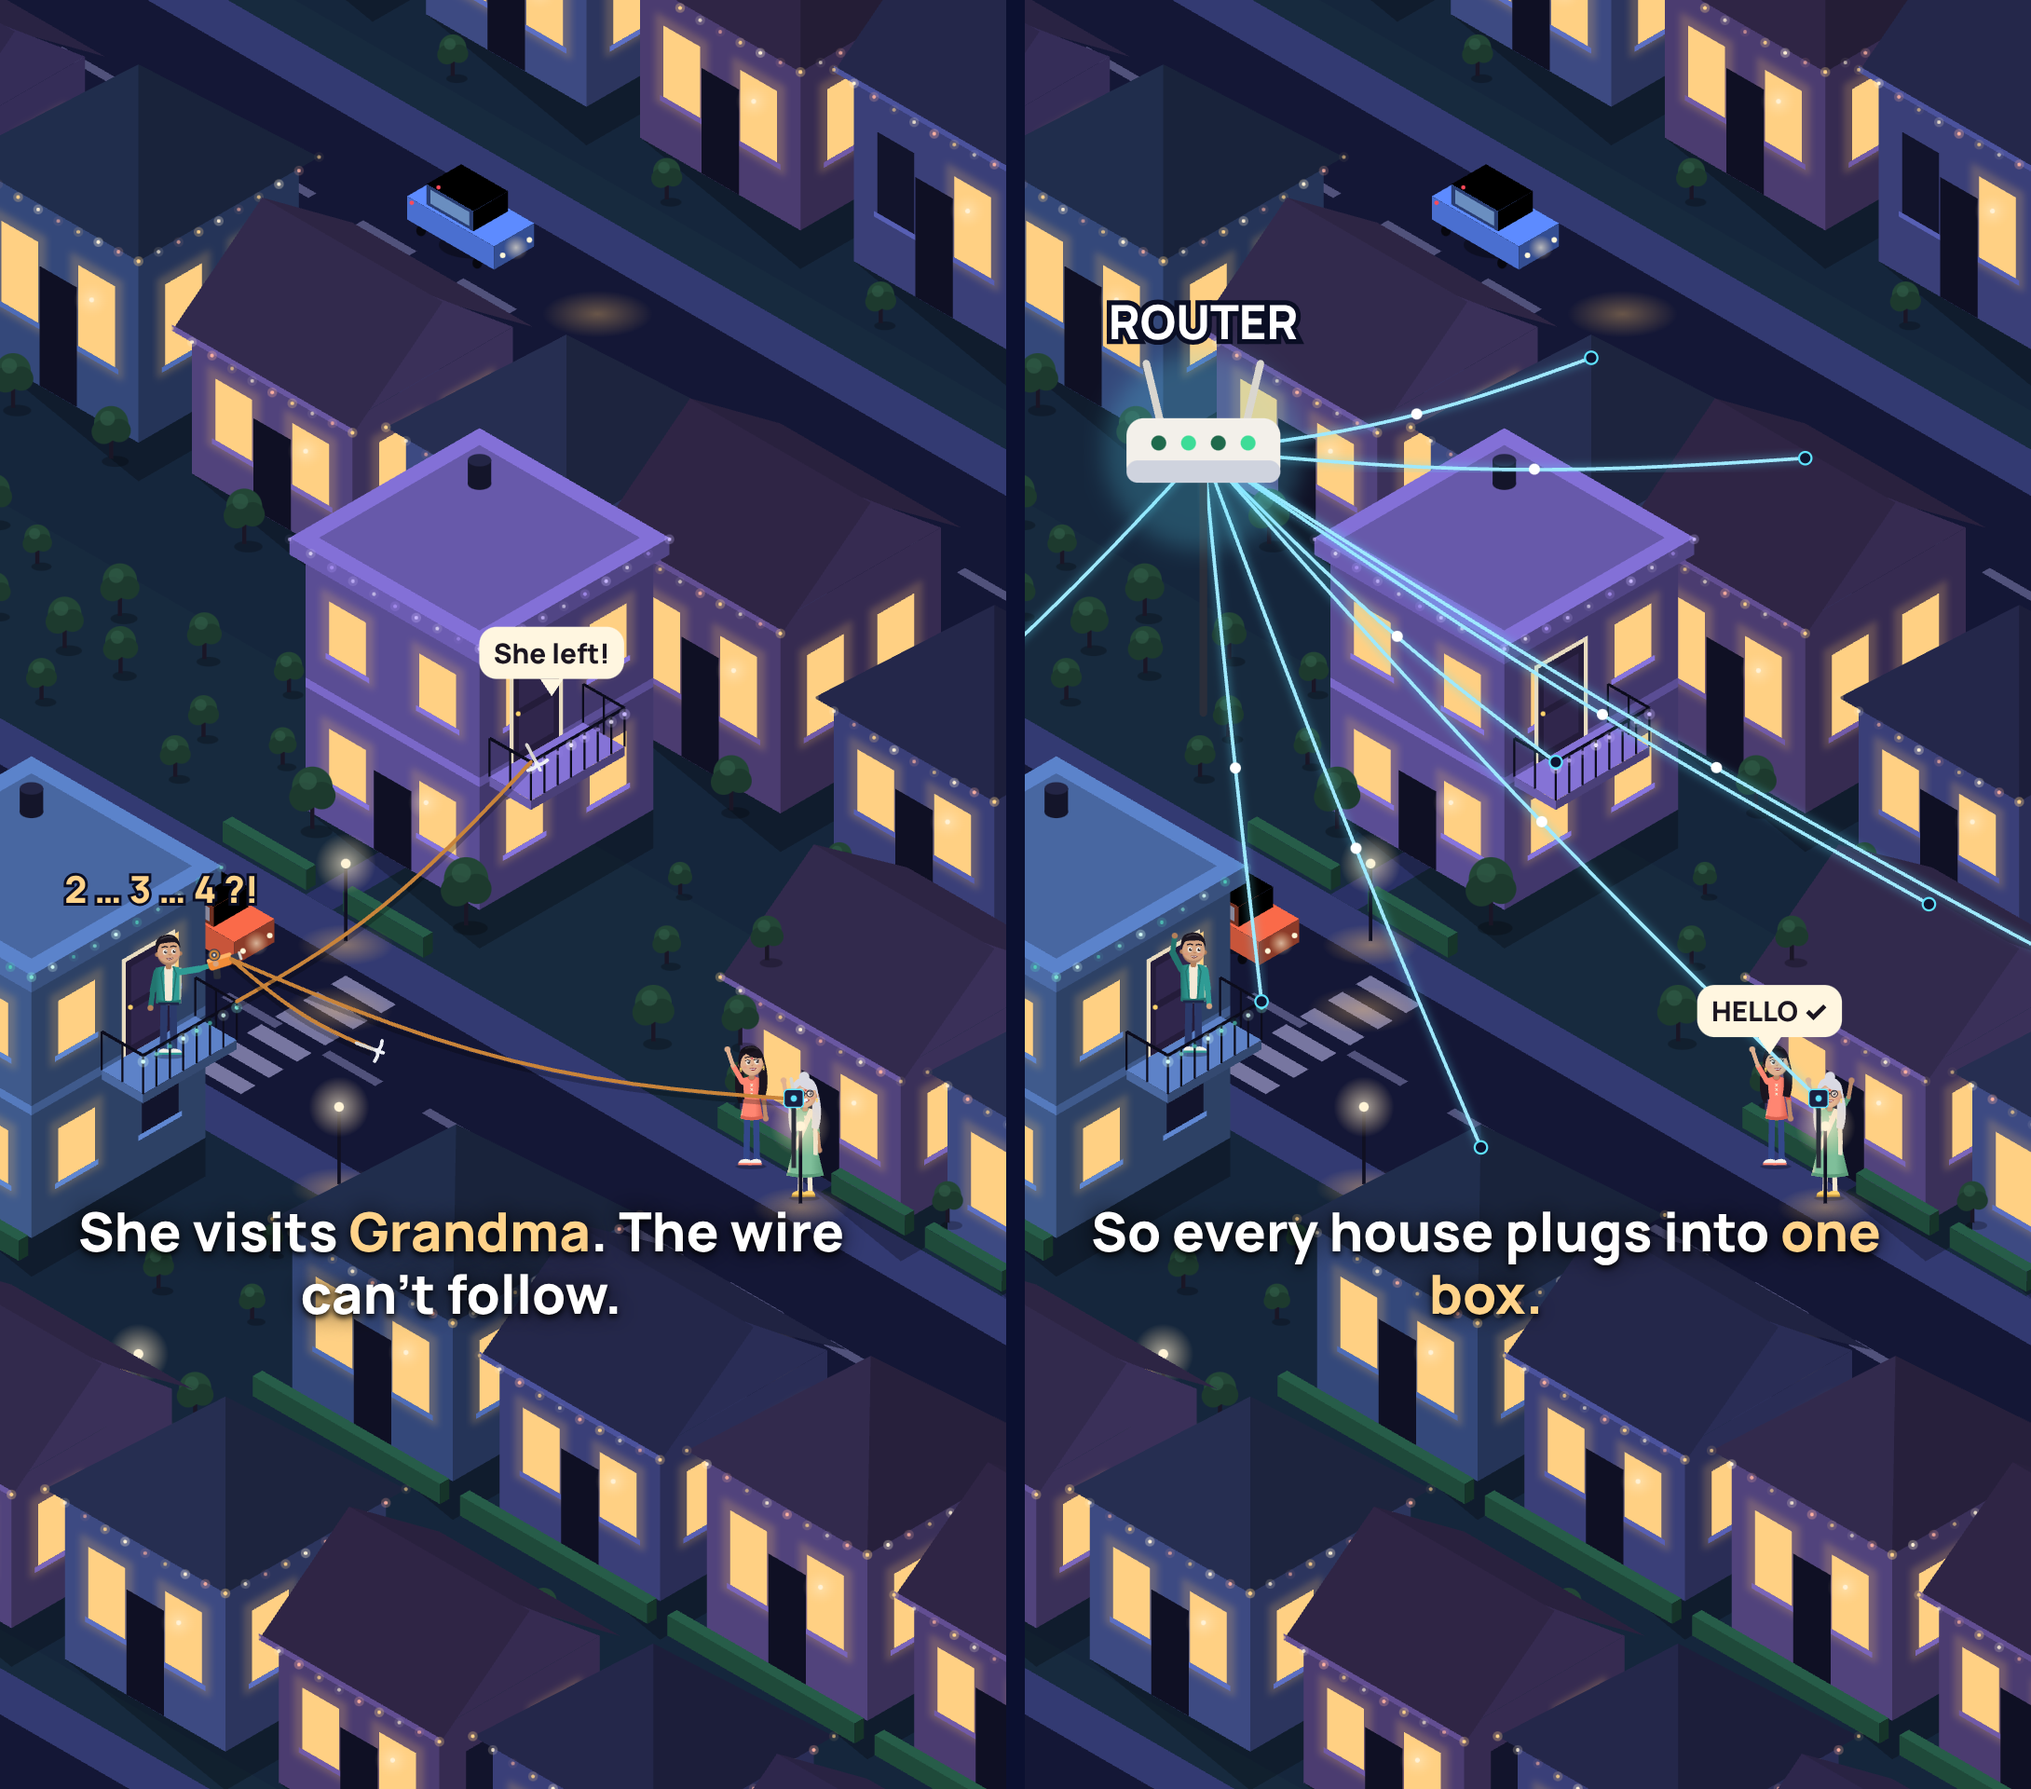
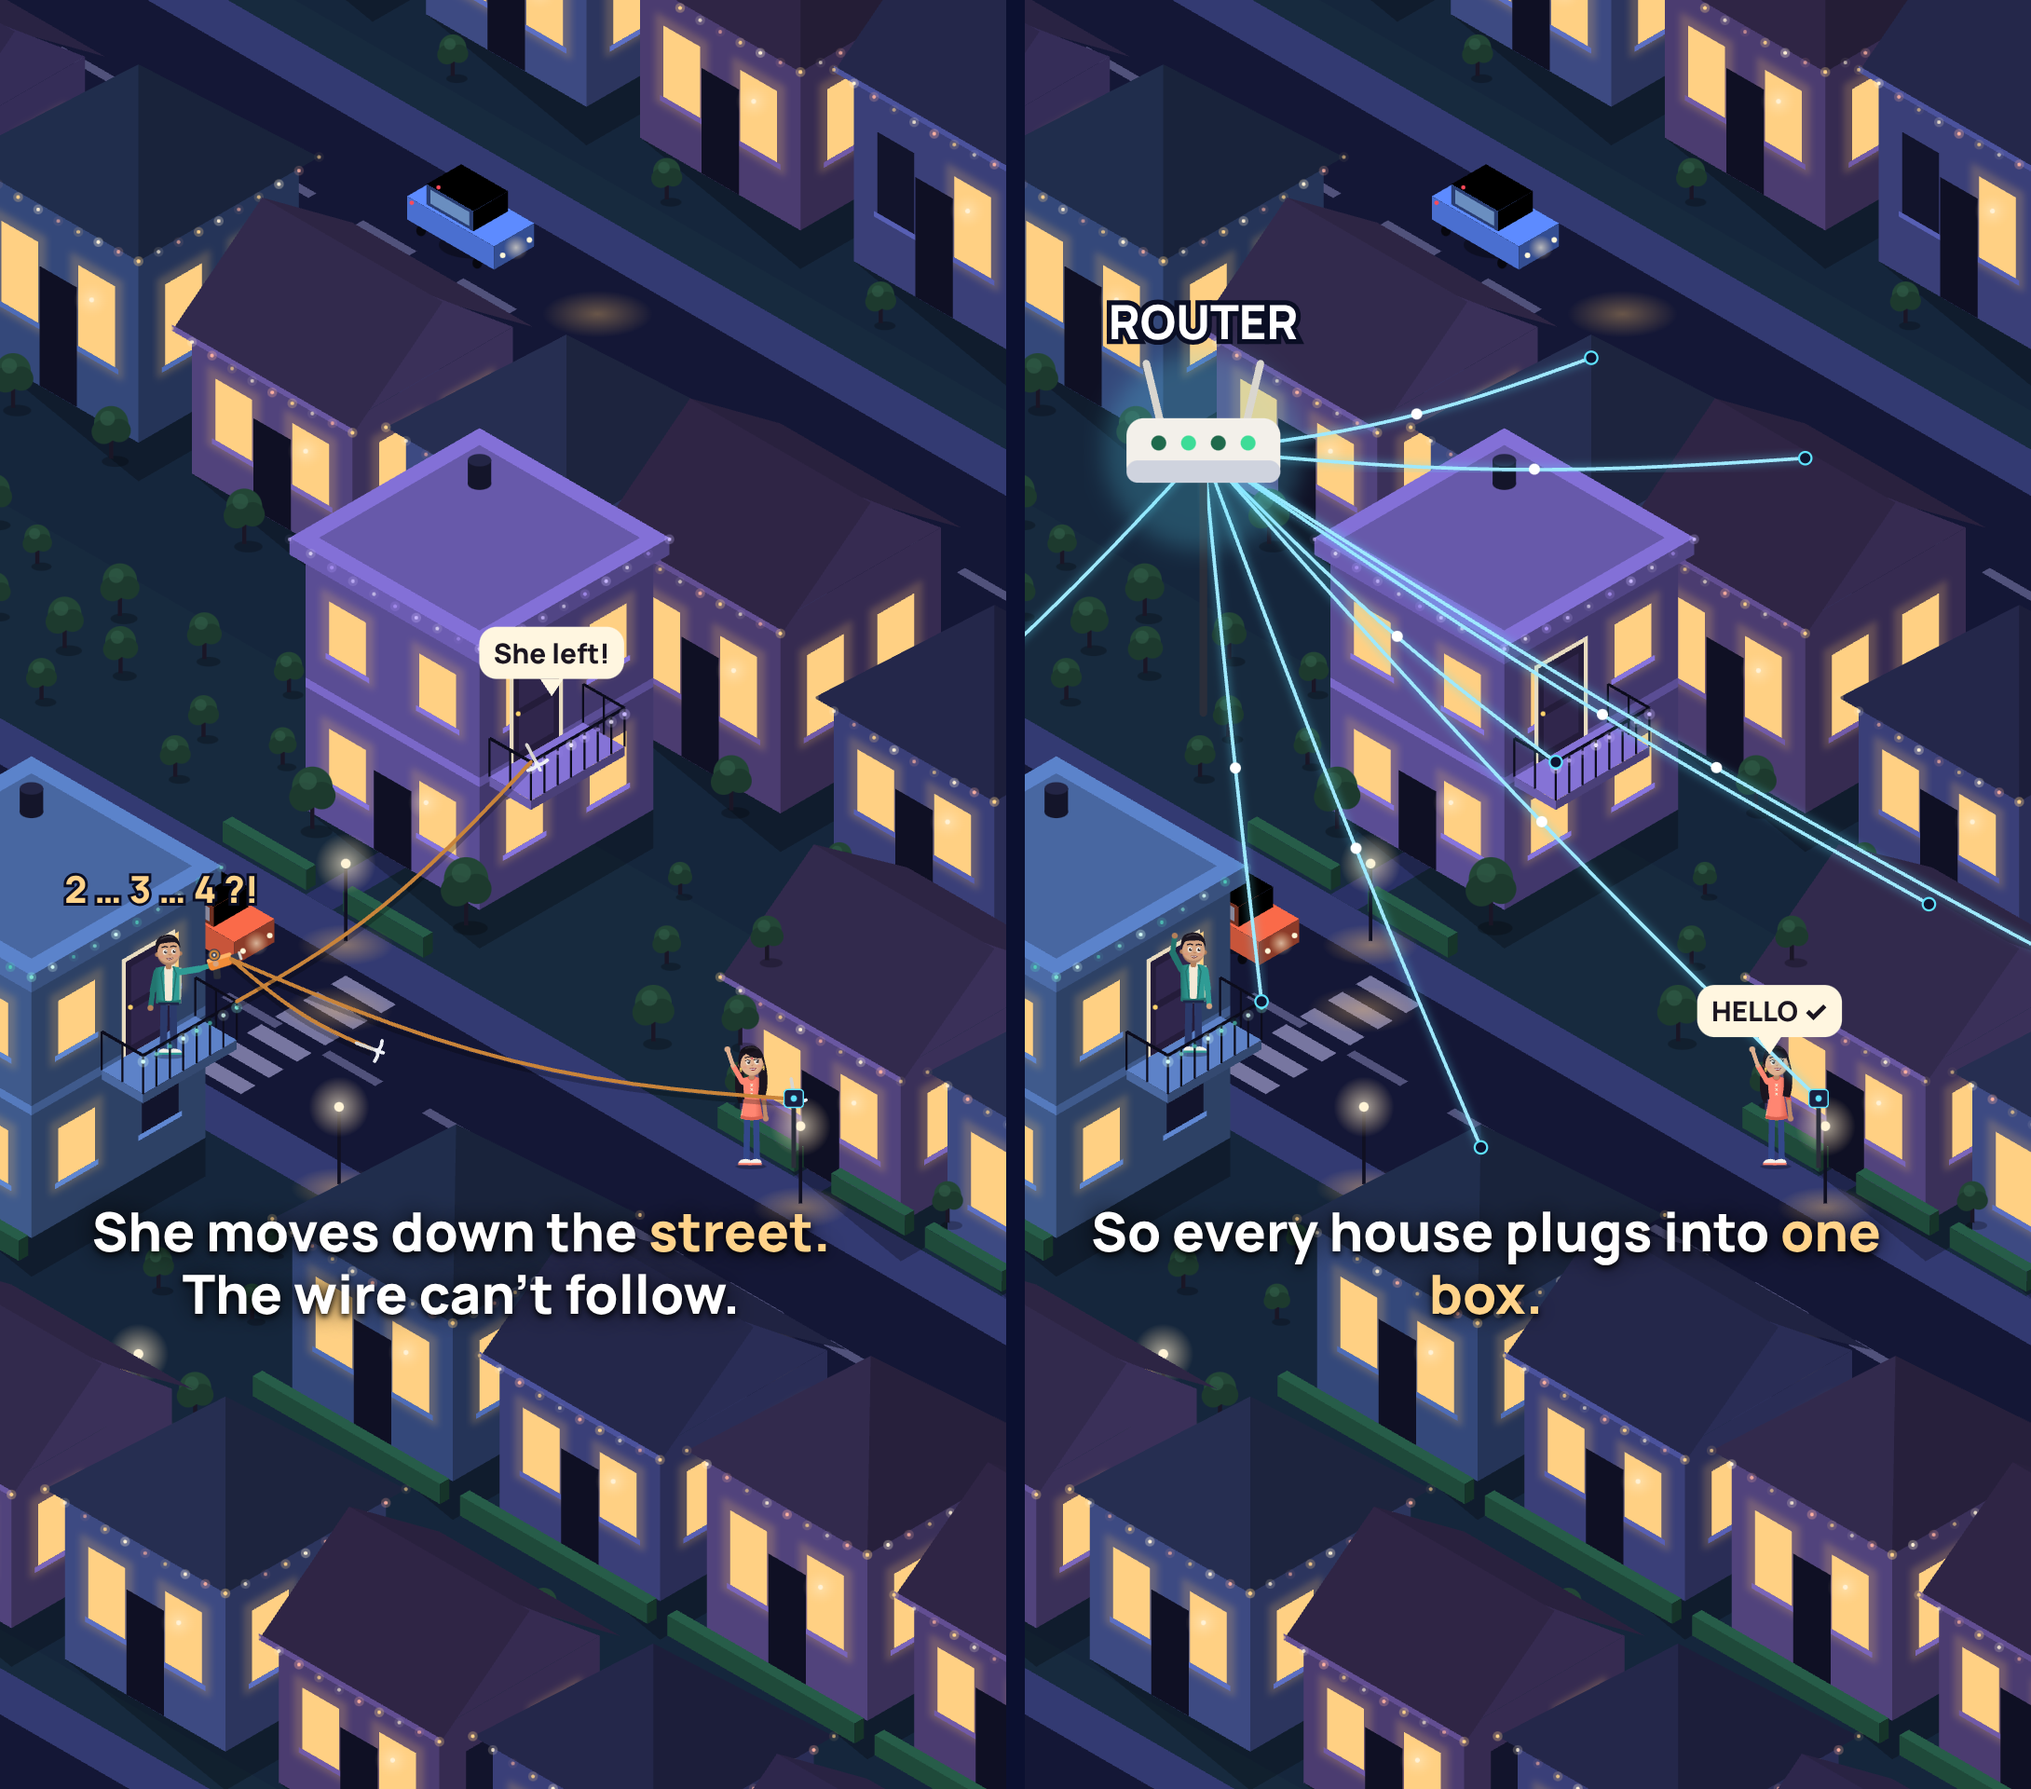
Internet short: she is the one who moves (overseas); grandmother dropped
Claude-Session: https://claude.ai/code/session_01GXcKc3rwQcfrK3291f8HAB

Changed region(s): [[0.0312, 0.5938, 0.4367, 0.75], [0.8734, 0.5938, 0.9358, 0.6562]]

diff --git a/internet/v3/src/dusk/IsoStreet.tsx b/internet/v3/src/dusk/IsoStreet.tsx
@@ -177,7 +177,7 @@ const PAIRS: [number, number][] = []; for (let i = 0; i < 10; i++) for (let j = 
 export const IsoNet: React.FC = () => <IsoStreet net />;
 /* concept stills for the "many houses" scene: 1a/1b follow her, 2a/2b neighbour chaos */
 export const Concept: React.FC<{ k: string }> = ({ k }) => <IsoStreet concept={k} />;
-const CSUB: Record<string, React.ReactNode> = { '1a': <>She visits <em>Grandma</em>. The wire can't follow.</>, '1b': <>So every house plugs into <em>one box.</em></>, '2a': <>Now the whole <em>street</em> wants in.</>, '2b': <>One box untangles it: the <em>router.</em></> };
+const CSUB: Record<string, React.ReactNode> = { '1a': <>She moves down the <em>street.</em> The wire can't follow.</>, '1b': <>So every house plugs into <em>one box.</em></>, '2a': <>Now the whole <em>street</em> wants in.</>, '2b': <>One box untangles it: the <em>router.</em></> };
 const GRAN = { hair: '#d9d9e3', top: '#7fbf9a', topSh: '#5a9a78', glasses: true, bun: true }, UNCLE = { hair: '#8d8d9a', top: '#c97b4a', topSh: '#9a5a32', moustache: true }, KIDT = { top: '#f6c34a', topSh: '#cf9a26' }, AUNTY = { top: '#e06a8c', topSh: '#b04a6a', bun: true };
 export const IsoStreet: React.FC<{ hook?: boolean; wire?: boolean; net?: boolean; mute?: boolean; concept?: string }> = ({ hook, wire, net, mute, concept }) => {
   const f = useCurrentFrame(); const t = f / FPS;
@@ -289,7 +289,7 @@ export const IsoStreet: React.FC<{ hook?: boolean; wire?: boolean; net?: boolean
         {balFront(GYC, ['#c9b8ff', '#f0e9ff', '#a58cf0'], GBX)}
         {concept && (() => { const st = (x: number, y: number, flip: boolean, node: React.ReactNode) => { const [a, b] = iso(x, y, 0); return <g transform={`translate(${a} ${b}) scale(${flip ? -SC : SC} ${SC})`}>{node}</g>; };
           const idle: StickPose = { blink: 0, smile: 1, look: -0.6, armR: [150, 170], armL: [-10, -6], tilt: 3 }, aim: StickPose = { blink: 0, smile: 0.9, look: 0.7, armR: [100, 104], armL: [-12, -8], holdTorch: true, tilt: -3 }, yay: StickPose = { blink: 0, smile: 1, look: 0, armR: [150, 170], armL: [-150, -170], tilt: 0 };
-          return cv === '1' ? <>{st(4.55, -1.72, true, <Adult kind="woman" dress={3} p={cb ? yay : idle} id="gr" tint={GRAN} />)}</>
+          return cv === '1' ? <></>
             : <>{st(4.4, -1.72, true, <Adult kind="woman" dress={3} p={cb ? yay : aim} id="au" tint={AUNTY} gun={!cb} />)}{st(7.4, -1.72, true, <Adult kind="man" p={cb ? yay : aim} id="un" tint={UNCLE} gun={!cb} />)}<g transform={`translate(${iso(-6.2, -1.72)[0]} ${iso(-6.2, -1.72)[1]}) scale(0.72)`}><g transform={`scale(${SC})`}><Adult kind="man" p={cb ? yay : aim} id="kd" tint={KIDT} gun={!cb} /></g></g></>; })()}
         {wave > 0.5 && !concept && [0, 1, 2].map((i) => { const u = ((t * 0.5 + i * 0.33) % 1); return <Heart key={'h' + i} x={gx + 34 + Math.sin(u * 6 + i) * 10} y={gy - 360 * SC - u * 70} s={1.3 - u * 0.5} o={(1 - u) * 0.9} />; })}
         {/* her side garden */}

diff --git a/internet/STORY-NOTES.md b/internet/STORY-NOTES.md
@@ -14,3 +14,13 @@
 - Isometric 2.5D night neighbourhood, individual houses, both on first-floor balconies.
 - College-age couple; she wears dress option 1; slightly fairer skin; dark door behind each of them.
 - Her house on the right, park in the middle, road + cars + trees kept.
+
+## Correction (15 Nov 2026): she is the one who moves, all the way overseas
+- NOT the grandmother. Grandma is not a main role (drop her, or keep her only as a background extra).
+- The girlfriend herself moves further and further away, and each move forces the network to grow:
+  1. Across the street: torch, then the rope-gun wire (done).
+  2. She moves to another house / the next street: one wire per place does not scale -> the router.
+  3. She moves to another city: router to router (and packets for big videos).
+  4. She moves overseas: glass cable under the sea, light inside it; anchors cut cables, so there are hundreds.
+  5. Ending: he still reaches her instantly; "that is how this video reached you".
+- He stays on his balcony the whole time; the camera travels with her.
